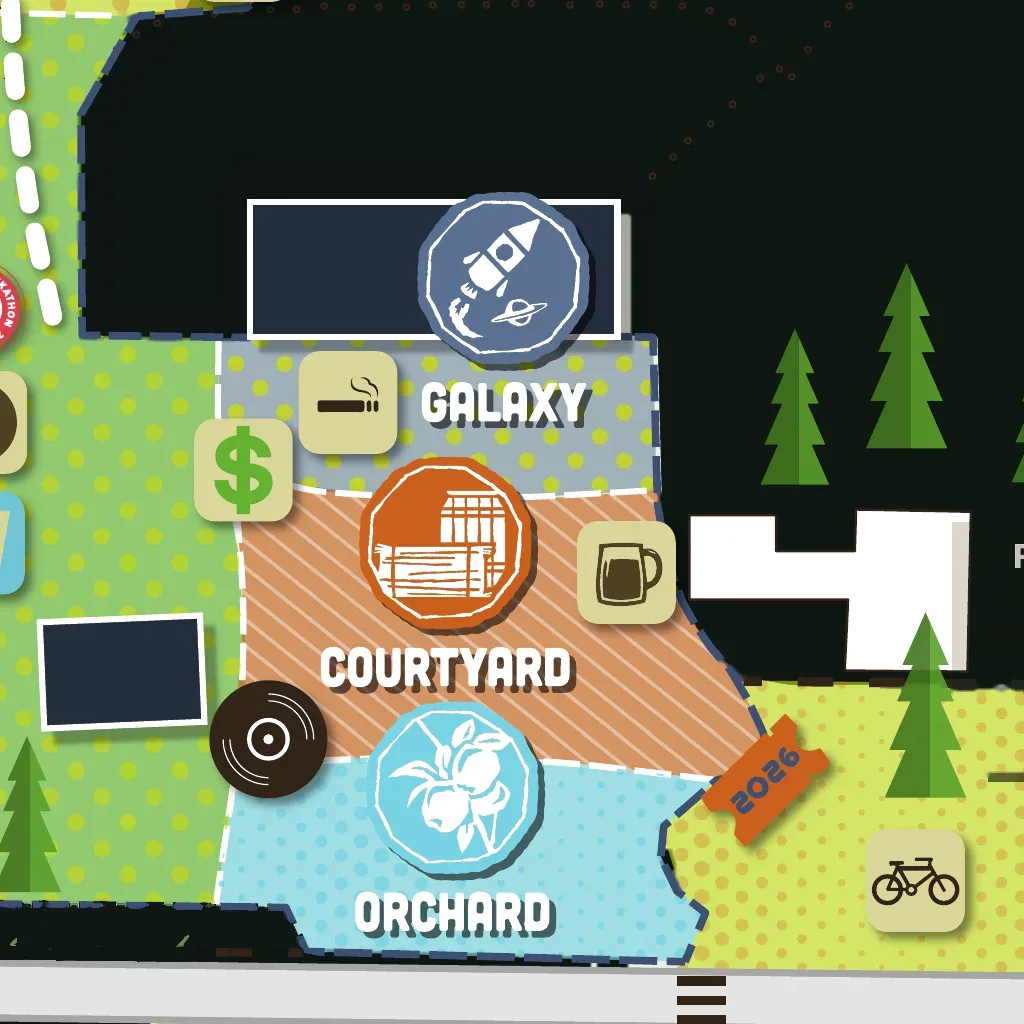
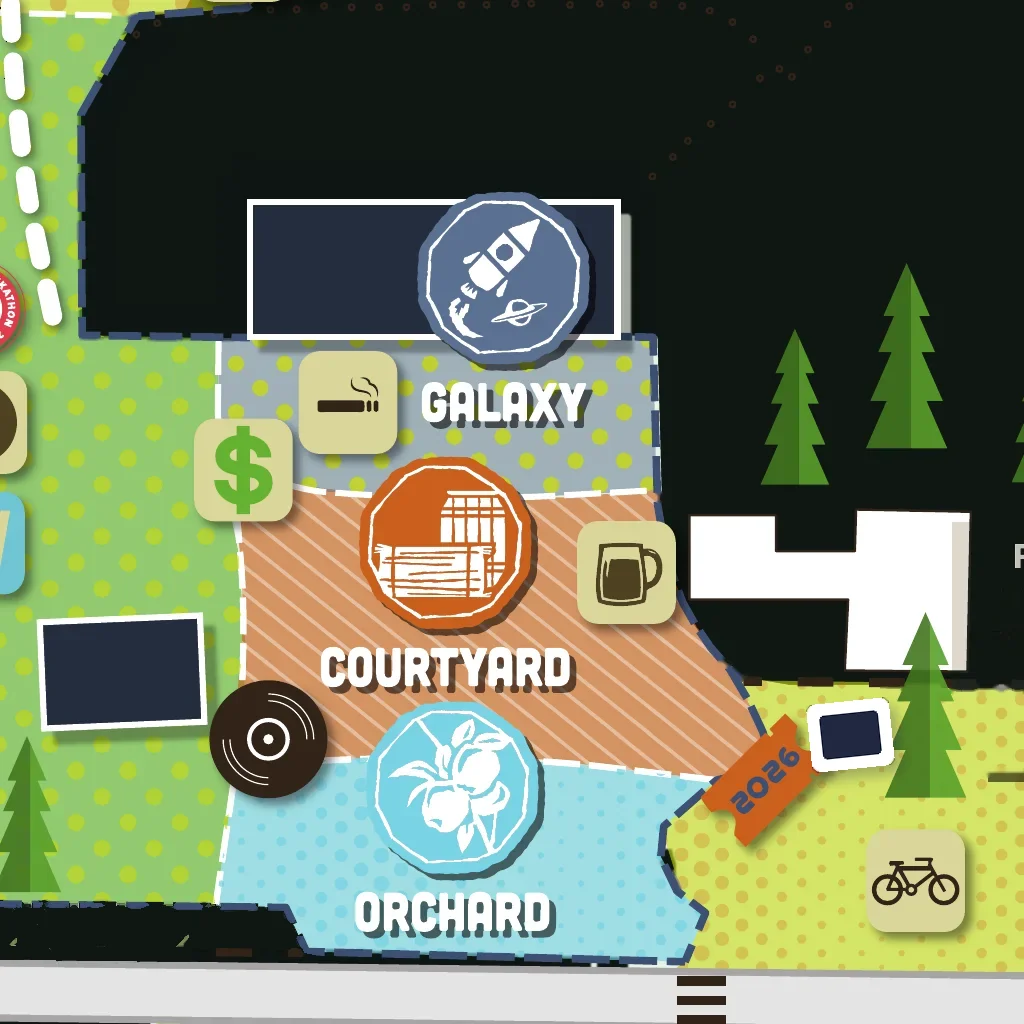
Map: stage plates in Curation and Farmhouse, DJ record in Curation; v=29
Claude-Session: https://claude.ai/code/session_01SpBvcN5P13erhr58dKS5yX

Changed region(s): [[0.7812, 0.6562, 0.875, 0.7812]]

diff --git a/farmmap/lab-phone.html b/farmmap/lab-phone.html
@@ -593,7 +593,7 @@ body.batout #dbat{margin:0 0 16px calc((100% - 129px)/6)!important}
 <script>/* Decide the entry state before the first paint, so nothing shows and then switches off (the title that blinked, labels that all showed and then collapsed). */
 (function(){try{var c=document.body.classList,emb=window.parent!==window,nv=performance.getEntriesByType('navigation')[0],rl=nv&&nv.type==='reload',fh=emb&&!rl&&sessionStorage.getItem('pkmap.from')==='hood',foc=!!sessionStorage.getItem('pkmap.focus');
 if(innerWidth>=880){c.add('lm');if(fh){c.add('dpdone');c.add('nodt');}}else{if(fh)c.add('lpback');else if(!foc)c.add('lpfresh');}}catch(e){}})();</script>
-  <div id="art"><img id="mapimg" src="map.webp?v=28" alt="Map of Pendarvis Farm" draggable="false"><div id="tiles"></div><div id="veil"></div><div id="lits"></div></div>
+  <div id="art"><img id="mapimg" src="map.webp?v=29" alt="Map of Pendarvis Farm" draggable="false"><div id="tiles"></div><div id="veil"></div><div id="lits"></div></div>
   <svg id="shapes"></svg>
   <svg id="leads"></svg>
   <div id="labs"></div>
@@ -996,8 +996,8 @@ function ico(k){
   return '<span class="ic svg'+(ICO_DARK[k]?' dark':'')+'"><svg viewBox="0 0 40 40" aria-hidden="true">'+g+'</svg></span>';
 }
 // Where each amenity icon really sits on the art (map pixels, from the vector map).
-const ICON_OWN={"restroom|1791.4|1228.9":"lushcamp","restroom|1041.3|860.1":"wildcamp","restroom|839.7|1868.9":"lushcamp","restroom|805.5|1498.9":"lushcamp","restroom|1366.4|717.6":"lushcamp","restroom|1663.5|2141.0":"market","restroom|745.5|3311.9":"lucky","restroom|1010.9|1133.0":"lushcamp","restroom|1241.4|2709.8":"paddock","restroom|615.5|2265.6":"lushcamp","water|1773.1|1425.9":"woods","water|1509.7|2523.1":"market","water|1208.0|2448.1":"grove","water|843.0|3213.6":"lucky","water|1618.0|2140.6":"market","water|969.7|2542.7":"windmill","bar|1220.5|2574.4":"grove","bar|1641.4|2228.1":"market","bar|793.8|2604.4":"windmill","bar|1113.4|3224.8":"courtyard","bar|1656.4|1333.0":"woods","coffee|780.5|2557.3":"windmill","coffee|1605.1|2426.9":"market","coffee|1728.5|1412.6":"woods","food|843.8|3163.2":"lucky","food|1155.9|2638.1":"paddock","food|1168.4|2734.0":"paddock","food|1606.4|2476.9":"market","food|1685.6|1377.6":"woods","dj|965.3|3294.9":"courtyard","dj|992.6|2633.5":"windmill","dj|1473.0|2257.3":"market","merch|1541.8|2639.2":"market","craft|1515.5|2172.7":"market","craft|1040.5|2913.6":"paddock","craft|1152.6|2782.3":"paddock","craft|1606.4|2288.5":"market","craft|1552.6|2221.4":"market","dot|843.8|3115.7":"lucky","dot|1608.0|2571.0":"market","ice|1607.6|2616.5":"market","atm|954.7|3182.3":"lucky","atm|1558.5|2525.2":"market","massage|1844.3|2096.4":"refuge","medical|1138.4|2827.3":"paddock","info|953.0|2964.0":"paddock","parking|1302.2|3444.4":"southcamp","moto|1409.7|3451.9":"southcamp","bike|1234.7|3354.0":"farmhouse","charge|998.8|2944.8":"paddock","gear|810.5|1440.5":"lushcamp","gear|843.4|1810.6":"lushcamp","gear|1426.4|713.4":"lushcamp","gear|987.6|938.0":"wildcamp","ticket|1172.4|3311.9":"farmhouse","shuttle|1053.0|3486.1":"farmhouse","kids|1393.4|2097.9":"coyote","run|975.5|2692.9":"windmill","rideshare|1036.8|3533.8":"southcamp","dishes|1606.0|2524.4":"market","smoke|998.0|3154.4":"galaxy","wheelchair|1255.5|3444.9":"southcamp","accesscamp|1599.9|1940.8":"lushcamp","rv|1028.8|3609.5":"southcamp","rv|1076.3|3609.0":"southcamp","shower|1795.1|2096.0":"refuge"};
-const ICON_AT={"restroom":[[1791.4,1228.9,42,0,41.7,42.5],[1041.3,860.1,42,1,41.7,42.5],[839.7,1868.9,42,2,41.7,42.5],[805.5,1498.9,42,3,41.7,42.5],[1366.4,717.6,42,4,41.7,42.5],[1663.5,2141.0,42,5,41.7,42.5],[745.5,3311.9,42,6,41.7,42.5],[1010.9,1133.0,42,7,41.7,42.5],[1241.4,2709.8,42,8,41.7,42.5],[615.5,2265.6,42,9,41.7,42.5]],"water":[[1773.1,1425.9,42,10,40.8,42.5],[1509.7,2523.1,42,11,40.8,42.5],[1208.0,2448.1,42,12,40.8,42.5],[843.0,3213.6,42,13,40.8,42.5],[1618.0,2140.6,42,14,40.8,42.5],[969.7,2542.7,42,15,40.8,42.5]],"bar":[[1220.5,2574.4,42,16,41.7,42.5],[1641.4,2228.1,42,17,41.7,42.5],[793.8,2604.4,42,18,41.7,42.5],[1113.4,3224.8,42,19,41.7,42.5],[1656.4,1333.0,42,20,41.7,42.5]],"coffee":[[780.5,2557.3,43,21,41.7,43.3],[1605.1,2426.9,43,22,41.7,43.3],[1728.5,1412.6,43,23,41.7,43.3]],"food":[[843.8,3163.2,42,24,41.7,42.5],[1155.9,2638.1,42,25,41.7,42.5],[1168.4,2734.0,42,26,41.7,42.5],[1606.4,2476.9,42,27,41.7,42.5],[1685.6,1377.6,42,28,41.7,42.5]],"dj":[[965.3,3294.9,49,29,48.8,49.2],[992.6,2633.5,49,30,49.2,49.2],[1473.0,2257.3,49,31,49.2,49.2]],"merch":[[1541.8,2639.2,45,32,45.0,42.9]],"craft":[[1515.5,2172.7,43,33,41.7,43.3],[1040.5,2913.6,43,34,41.7,43.3],[1152.6,2782.3,43,35,41.7,43.3],[1606.4,2288.5,43,36,41.7,43.3],[1552.6,2221.4,43,37,41.7,43.3]],"dot":[[843.8,3115.7,41,38,40.8,40.8],[1608.0,2571.0,45,39,40.8,45.0]],"ice":[[1607.6,2616.5,43,40,41.7,43.3]],"atm":[[954.7,3182.3,42,41,41.7,42.5],[1558.5,2525.2,42,42,41.7,42.5]],"massage":[[1844.3,2096.4,42,43,41.7,41.7]],"medical":[[1138.4,2827.3,43,44,41.7,43.3]],"info":[[953.0,2964.0,42,45,42.5,42.5]],"parking":[[1302.2,3444.4,43,46,42.5,43.3]],"moto":[[1409.7,3451.9,43,47,43.3,42.5]],"bike":[[1234.7,3354.0,42,48,41.7,42.5]],"charge":[[998.8,2944.8,42,49,42.5,42.5]],"gear":[[810.5,1440.5,58,50,57.5,57.5],[843.4,1810.6,58,51,57.5,57.5],[1426.4,713.4,58,52,57.5,57.5],[987.6,938.0,58,53,57.5,57.5]],"ticket":[[1172.4,3311.9,55,54,53.8,55.0]],"shuttle":[[1053.0,3486.1,42,55,42.5,42.5]],"kids":[[1393.4,2097.9,48,56,32.5,47.9]],"run":[[975.5,2692.9,44,57,28.3,43.8]],"rideshare":[[1036.8,3533.8,35,58,35.0,24.6]],"dishes":[[1606.0,2524.4,43,59,43.3,43.3]],"smoke":[[998.0,3154.4,43,60,43.3,43.3]],"wheelchair":[[1255.5,3444.9,42,61,41.7,41.7]],"accesscamp":[[1599.9,1940.8,42,62,42.1,42.1]],"rv":[[1028.8,3609.5,42,63,42.5,42.5],[1076.3,3609.0,42,64,42.5,42.5]],"shower":[[1795.1,2096.0,47,65,46.7,46.7]]};
+const ICON_OWN={"restroom|1791.4|1228.9":"lushcamp","restroom|1041.3|860.1":"wildcamp","restroom|839.7|1868.9":"lushcamp","restroom|805.5|1498.9":"lushcamp","restroom|1366.4|717.6":"lushcamp","restroom|1663.5|2141.0":"market","restroom|745.5|3311.9":"lucky","restroom|1010.9|1133.0":"lushcamp","restroom|1241.4|2709.8":"paddock","restroom|615.5|2265.6":"lushcamp","water|1773.1|1425.9":"woods","water|1509.7|2523.1":"market","water|1208.0|2448.1":"grove","water|843.0|3213.6":"lucky","water|1618.0|2140.6":"market","water|969.7|2542.7":"windmill","bar|1220.5|2574.4":"grove","bar|1641.4|2228.1":"market","bar|793.8|2604.4":"windmill","bar|1113.4|3224.8":"courtyard","bar|1656.4|1333.0":"woods","coffee|780.5|2557.3":"windmill","coffee|1605.1|2426.9":"market","coffee|1728.5|1412.6":"woods","food|843.8|3163.2":"lucky","food|1155.9|2638.1":"paddock","food|1168.4|2734.0":"paddock","food|1606.4|2476.9":"market","food|1685.6|1377.6":"woods","dj|965.3|3294.9":"courtyard","dj|992.6|2633.5":"windmill","dj|1473.0|2257.3":"market","dj|624.6|3691.1":"curation","merch|1541.8|2639.2":"market","craft|1515.5|2172.7":"market","craft|1040.5|2913.6":"paddock","craft|1152.6|2782.3":"paddock","craft|1606.4|2288.5":"market","craft|1552.6|2221.4":"market","dot|843.8|3115.7":"lucky","dot|1608.0|2571.0":"market","ice|1607.6|2616.5":"market","atm|954.7|3182.3":"lucky","atm|1558.5|2525.2":"market","massage|1844.3|2096.4":"refuge","medical|1138.4|2827.3":"paddock","info|953.0|2964.0":"paddock","parking|1302.2|3444.4":"southcamp","moto|1409.7|3451.9":"southcamp","bike|1234.7|3354.0":"farmhouse","charge|998.8|2944.8":"paddock","gear|810.5|1440.5":"lushcamp","gear|843.4|1810.6":"lushcamp","gear|1426.4|713.4":"lushcamp","gear|987.6|938.0":"wildcamp","ticket|1172.4|3311.9":"farmhouse","shuttle|1053.0|3486.1":"farmhouse","kids|1393.4|2097.9":"coyote","run|975.5|2692.9":"windmill","rideshare|1036.8|3533.8":"southcamp","dishes|1606.0|2524.4":"market","smoke|998.0|3154.4":"galaxy","wheelchair|1255.5|3444.9":"southcamp","accesscamp|1599.9|1940.8":"lushcamp","rv|1028.8|3609.5":"southcamp","rv|1076.3|3609.0":"southcamp","shower|1795.1|2096.0":"refuge"};
+const ICON_AT={"restroom":[[1791.4,1228.9,42,0,41.7,42.5],[1041.3,860.1,42,1,41.7,42.5],[839.7,1868.9,42,2,41.7,42.5],[805.5,1498.9,42,3,41.7,42.5],[1366.4,717.6,42,4,41.7,42.5],[1663.5,2141.0,42,5,41.7,42.5],[745.5,3311.9,42,6,41.7,42.5],[1010.9,1133.0,42,7,41.7,42.5],[1241.4,2709.8,42,8,41.7,42.5],[615.5,2265.6,42,9,41.7,42.5]],"water":[[1773.1,1425.9,42,10,40.8,42.5],[1509.7,2523.1,42,11,40.8,42.5],[1208.0,2448.1,42,12,40.8,42.5],[843.0,3213.6,42,13,40.8,42.5],[1618.0,2140.6,42,14,40.8,42.5],[969.7,2542.7,42,15,40.8,42.5]],"bar":[[1220.5,2574.4,42,16,41.7,42.5],[1641.4,2228.1,42,17,41.7,42.5],[793.8,2604.4,42,18,41.7,42.5],[1113.4,3224.8,42,19,41.7,42.5],[1656.4,1333.0,42,20,41.7,42.5]],"coffee":[[780.5,2557.3,43,21,41.7,43.3],[1605.1,2426.9,43,22,41.7,43.3],[1728.5,1412.6,43,23,41.7,43.3]],"food":[[843.8,3163.2,42,24,41.7,42.5],[1155.9,2638.1,42,25,41.7,42.5],[1168.4,2734.0,42,26,41.7,42.5],[1606.4,2476.9,42,27,41.7,42.5],[1685.6,1377.6,42,28,41.7,42.5]],"dj":[[965.3,3294.9,49,29,48.8,49.2],[992.6,2633.5,49,30,49.2,49.2],[1473.0,2257.3,49,31,49.2,49.2],[624.6,3691.1,49,31,49.2,49.2]],"merch":[[1541.8,2639.2,45,32,45.0,42.9]],"craft":[[1515.5,2172.7,43,33,41.7,43.3],[1040.5,2913.6,43,34,41.7,43.3],[1152.6,2782.3,43,35,41.7,43.3],[1606.4,2288.5,43,36,41.7,43.3],[1552.6,2221.4,43,37,41.7,43.3]],"dot":[[843.8,3115.7,41,38,40.8,40.8],[1608.0,2571.0,45,39,40.8,45.0]],"ice":[[1607.6,2616.5,43,40,41.7,43.3]],"atm":[[954.7,3182.3,42,41,41.7,42.5],[1558.5,2525.2,42,42,41.7,42.5]],"massage":[[1844.3,2096.4,42,43,41.7,41.7]],"medical":[[1138.4,2827.3,43,44,41.7,43.3]],"info":[[953.0,2964.0,42,45,42.5,42.5]],"parking":[[1302.2,3444.4,43,46,42.5,43.3]],"moto":[[1409.7,3451.9,43,47,43.3,42.5]],"bike":[[1234.7,3354.0,42,48,41.7,42.5]],"charge":[[998.8,2944.8,42,49,42.5,42.5]],"gear":[[810.5,1440.5,58,50,57.5,57.5],[843.4,1810.6,58,51,57.5,57.5],[1426.4,713.4,58,52,57.5,57.5],[987.6,938.0,58,53,57.5,57.5]],"ticket":[[1172.4,3311.9,55,54,53.8,55.0]],"shuttle":[[1053.0,3486.1,42,55,42.5,42.5]],"kids":[[1393.4,2097.9,48,56,32.5,47.9]],"run":[[975.5,2692.9,44,57,28.3,43.8]],"rideshare":[[1036.8,3533.8,35,58,35.0,24.6]],"dishes":[[1606.0,2524.4,43,59,43.3,43.3]],"smoke":[[998.0,3154.4,43,60,43.3,43.3]],"wheelchair":[[1255.5,3444.9,42,61,41.7,41.7]],"accesscamp":[[1599.9,1940.8,42,62,42.1,42.1]],"rv":[[1028.8,3609.5,42,63,42.5,42.5],[1076.3,3609.0,42,64,42.5,42.5]],"shower":[[1795.1,2096.0,47,65,46.7,46.7]]};
 let RINGS=[];
 // The icons inside one neighbourhood: every icon whose centre falls in its outline.
 let _hp=null;
@@ -1009,7 +1009,7 @@ function hoodIcons(h){
   for(const a in ICON_AT) ICON_AT[a].forEach(p=>{ if(ICON_OWN[a+'|'+p[0]+'|'+p[1]]===h.id) out.push([a,p]); });   // every icon has exactly one owner (computed from the art, ties broken by the WordPress amenity list)
   return out;
 }
-const ICON_ATLAS='ic/atlas.webp?v=28', ATL=[1440,1008,144,10];
+const ICON_ATLAS='ic/atlas.webp?v=29', ATL=[1440,1008,144,10];
 function showRings(a,hood){
   const g=document.getElementById('rings'); if(!g) return;
   g.innerHTML=''; RINGS=[];
@@ -1073,7 +1073,7 @@ function light(h){
     v.o.classList.remove('on'); v.tiles.forEach(t=>t.classList.remove('on'));
     setTimeout(()=>{ v.o.remove(); v.tiles.forEach(t=>t.remove()); },260); LITIMG.delete(id); } });
   ids.forEach(id=>{ if(!LITIMG.has(id)){ const o=LIT[id].o;
-    LITIMG.set(id,{o:litMake(host,'l/'+id+'.webp?v=28',o[0],o[1],o[2],o[3]),tiles:new Map()}); } });
+    LITIMG.set(id,{o:litMake(host,'l/'+id+'.webp?v=29',o[0],o[1],o[2],o[3]),tiles:new Map()}); } });
   syncPk();
   document.getElementById('veil').classList.toggle('on',ids.length>0);
   stage.classList.toggle('veiled',ids.length>0);
@@ -1213,7 +1213,7 @@ function tiles(){
       if(!v.tiles.has(key)){
         // every sharp piece of one neighbourhood lives in a single sheet; each piece just windows into it
         const A=LIT[id].a, f=TM/TP, d=document.createElement('div');
-        d.style.cssText='left:'+c*TM+'px;top:'+r*TM+'px;width:'+Math.min(TM,MW-c*TM)+'px;height:'+Math.min(TM,MH-r*TM)+'px;background:url(l/'+id+'_a.webp?v=28) -'+a[2]*TP*f+'px -'+a[3]*TP*f+'px/'+A[0]*f+'px '+A[1]*f+'px no-repeat';
+        d.style.cssText='left:'+c*TM+'px;top:'+r*TM+'px;width:'+Math.min(TM,MW-c*TM)+'px;height:'+Math.min(TM,MH-r*TM)+'px;background:url(l/'+id+'_a.webp?v=29) -'+a[2]*TP*f+'px -'+a[3]*TP*f+'px/'+A[0]*f+'px '+A[1]*f+'px no-repeat';
         if(peekH&&peekH.id===id) d.classList.add('pk'); lh.appendChild(d); requestAnimationFrame(()=>d.classList.add('on')); v.tiles.set(key,d);
       } });
     v.tiles.forEach((im,key)=>{ if(!want.has(key)){ im.remove(); v.tiles.delete(key); } });
@@ -1228,7 +1228,7 @@ function tiles(){
     if(!t.img){
       const im=new Image(); im.decoding='async'; im.draggable=false;
       im.style.left=t.x+'px'; im.style.top=t.y+'px'; im.style.width=t.w+'px'; im.style.height=t.h+'px';
-      im.src='t/'+key+'.webp?v=28'; (im.decode?im.decode():Promise.resolve()).then(()=>im.classList.add('on'),()=>im.classList.add('on')); host.appendChild(im); t.img=im;
+      im.src='t/'+key+'.webp?v=29'; (im.decode?im.decode():Promise.resolve()).then(()=>im.classList.add('on'),()=>im.classList.add('on')); host.appendChild(im); t.img=im;
     }
   }
   if(TILES.size>TMAX){
@@ -1986,8 +1986,8 @@ function warmView(to,h){
   try{
     const W=stage.clientWidth,H=stage.clientHeight; if(to.k*Math.min(window.devicePixelRatio||1,3)<1.05) return;
     const m=TM*0.2, x0=Math.max(0,-to.tx/to.k-m), y0=Math.max(0,-to.ty/to.k-m), x1=Math.min(MW,(W-to.tx)/to.k+m), y1=Math.min(MH,(H-to.ty)/to.k+m);
-    for(let c=Math.floor(x0/TM);c<=Math.min(TW-1,Math.floor(x1/TM));c++) for(let r=Math.floor(y0/TM);r<=Math.min(TH-1,Math.floor(y1/TM));r++) new Image().src='t/'+c+'_'+r+'.webp?v=28';
-    if(h&&LIT[h.id]&&LIT[h.id].a){ new Image().src='l/'+h.id+'_a.webp?v=28'; }
+    for(let c=Math.floor(x0/TM);c<=Math.min(TW-1,Math.floor(x1/TM));c++) for(let r=Math.floor(y0/TM);r<=Math.min(TH-1,Math.floor(y1/TM));r++) new Image().src='t/'+c+'_'+r+'.webp?v=29';
+    if(h&&LIT[h.id]&&LIT[h.id].a){ new Image().src='l/'+h.id+'_a.webp?v=29'; }
   }catch(e){}
 }
 function flyTo(h){ const to=viewFor(h); if(to) flyView(to,h); }

diff --git a/farmmap/index.html b/farmmap/index.html
@@ -402,7 +402,7 @@ body{margin:0;background:var(--ink);color:var(--cream);font-family:var(--f);
 
 <style>body.cardmode #leads{display:none!important}body.cardmode #veil.on{background:rgba(8,11,6,.6)!important}body.cardmode #lits img{filter:drop-shadow(0 0 1.5px #fff) drop-shadow(0 0 4px #fff4c2) drop-shadow(0 0 18px rgba(255,236,150,1)) brightness(1.3) saturate(1.2)}body.cardmode #stage{inset:0!important;right:0!important;bottom:0!important;width:100%!important;height:100%!important}body.cardmode #page,body.cardmode #finder,body.cardmode #fullmap,body.cardmode #card,body.cardmode #fx,body.cardmode #itip{display:none!important}body.cardmode,body.cardmode *{pointer-events:none!important;cursor:default!important}body.cardmode .lbl,body.cardmode [class*=lab]{display:none!important}</style>
 <div id="stage">
-  <div id="art"><img id="mapimg" src="map.webp?v=28" alt="Map of Pendarvis Farm" draggable="false"><div id="tiles"></div><div id="veil"></div><div id="lits"></div></div>
+  <div id="art"><img id="mapimg" src="map.webp?v=29" alt="Map of Pendarvis Farm" draggable="false"><div id="tiles"></div><div id="veil"></div><div id="lits"></div></div>
   <svg id="shapes"></svg>
   <svg id="leads"></svg>
   <div id="labs"></div>
@@ -579,7 +579,7 @@ function hoodIcons(h){
   for(const a in ICON_AT) ICON_AT[a].forEach(p=>{ if(ICON_OWN[a+'|'+p[0]+'|'+p[1]]===h.id) out.push([a,p]); });   // every icon has exactly one owner (computed from the art, ties broken by the WordPress amenity list)
   return out;
 }
-const ICON_ATLAS='ic/atlas.webp?v=28', ATL=[1440,1008,144,10];
+const ICON_ATLAS='ic/atlas.webp?v=29', ATL=[1440,1008,144,10];
 function showRings(a,hood){
   const g=document.getElementById('rings'); if(!g) return;
   g.innerHTML=''; RINGS=[];
@@ -643,7 +643,7 @@ function light(h){
     v.o.classList.remove('on'); v.tiles.forEach(t=>t.classList.remove('on'));
     setTimeout(()=>{ v.o.remove(); v.tiles.forEach(t=>t.remove()); },260); LITIMG.delete(id); } });
   ids.forEach(id=>{ if(!LITIMG.has(id)){ const o=LIT[id].o;
-    LITIMG.set(id,{o:litMake(host,'l/'+id+'.webp?v=28',o[0],o[1],o[2],o[3]),tiles:new Map()}); } });
+    LITIMG.set(id,{o:litMake(host,'l/'+id+'.webp?v=29',o[0],o[1],o[2],o[3]),tiles:new Map()}); } });
   syncPk();
   document.getElementById('veil').classList.toggle('on',ids.length>0);
   stage.classList.toggle('veiled',ids.length>0);
@@ -768,7 +768,7 @@ function tiles(){
       if(!v.tiles.has(key)){
         // every sharp piece of one neighbourhood lives in a single sheet; each piece just windows into it
         const A=LIT[id].a, f=TM/TP, d=document.createElement('div');
-        d.style.cssText='left:'+c*TM+'px;top:'+r*TM+'px;width:'+Math.min(TM,MW-c*TM)+'px;height:'+Math.min(TM,MH-r*TM)+'px;background:url(l/'+id+'_a.webp?v=28) -'+a[2]*TP*f+'px -'+a[3]*TP*f+'px/'+A[0]*f+'px '+A[1]*f+'px no-repeat';
+        d.style.cssText='left:'+c*TM+'px;top:'+r*TM+'px;width:'+Math.min(TM,MW-c*TM)+'px;height:'+Math.min(TM,MH-r*TM)+'px;background:url(l/'+id+'_a.webp?v=29) -'+a[2]*TP*f+'px -'+a[3]*TP*f+'px/'+A[0]*f+'px '+A[1]*f+'px no-repeat';
         if(peekH&&peekH.id===id) d.classList.add('pk'); lh.appendChild(d); requestAnimationFrame(()=>d.classList.add('on')); v.tiles.set(key,d);
       } });
     v.tiles.forEach((im,key)=>{ if(!want.has(key)){ im.remove(); v.tiles.delete(key); } });
@@ -783,7 +783,7 @@ function tiles(){
     if(!t.img){
       const im=new Image(); im.decoding='async'; im.draggable=false;
       im.style.left=t.x+'px'; im.style.top=t.y+'px'; im.style.width=t.w+'px'; im.style.height=t.h+'px';
-      im.src='t/'+key+'.webp?v=28'; (im.decode?im.decode():Promise.resolve()).then(()=>im.classList.add('on'),()=>im.classList.add('on')); host.appendChild(im); t.img=im;
+      im.src='t/'+key+'.webp?v=29'; (im.decode?im.decode():Promise.resolve()).then(()=>im.classList.add('on'),()=>im.classList.add('on')); host.appendChild(im); t.img=im;
     }
   }
   if(TILES.size>TMAX){
@@ -1246,8 +1246,8 @@ function warmView(to,h){
   try{
     const W=stage.clientWidth,H=stage.clientHeight; if(to.k*Math.min(window.devicePixelRatio||1,3)<1.05) return;
     const m=TM*0.2, x0=Math.max(0,-to.tx/to.k-m), y0=Math.max(0,-to.ty/to.k-m), x1=Math.min(MW,(W-to.tx)/to.k+m), y1=Math.min(MH,(H-to.ty)/to.k+m);
-    for(let c=Math.floor(x0/TM);c<=Math.min(TW-1,Math.floor(x1/TM));c++) for(let r=Math.floor(y0/TM);r<=Math.min(TH-1,Math.floor(y1/TM));r++) new Image().src='t/'+c+'_'+r+'.webp?v=28';
-    if(h&&LIT[h.id]&&LIT[h.id].a){ new Image().src='l/'+h.id+'_a.webp?v=28'; }
+    for(let c=Math.floor(x0/TM);c<=Math.min(TW-1,Math.floor(x1/TM));c++) for(let r=Math.floor(y0/TM);r<=Math.min(TH-1,Math.floor(y1/TM));r++) new Image().src='t/'+c+'_'+r+'.webp?v=29';
+    if(h&&LIT[h.id]&&LIT[h.id].a){ new Image().src='l/'+h.id+'_a.webp?v=29'; }
   }catch(e){}
 }
 function flyTo(h){ const to=viewFor(h); if(to) flyView(to,h); }

diff --git a/sw.js b/sw.js
@@ -1,5 +1,5 @@
 // Pickathon service worker. Build 20261101-1050
-const V='pk-20261102-2885',M='pkmedia-2',KEEP=["ssindex-b6158b1d.json"],SHELL=['./','index.html','data.json','manifest.json','icon-192.png','apple-touch-icon.png','fonts/pickathon-2014.ttf','farmmap/index.html?embed=1'];
+const V='pk-20261102-2886',M='pkmedia-2',KEEP=["ssindex-b6158b1d.json"],SHELL=['./','index.html','data.json','manifest.json','icon-192.png','apple-touch-icon.png','fonts/pickathon-2014.ttf','farmmap/index.html?embed=1'];
 const MP='pkmap-1';
 async function mapPack(tier){try{const p=await (await fetch('farmmap/pack.json',{cache:'no-store'})).json();const c=await caches.open(MP);const abs=u=>new URL(u,self.registration.scope).href;const want=new Set(p.core.concat(p.extra).map(abs));for(const q of await c.keys())if(!want.has(q.url))await c.delete(q);const list=tier==='core'?p.core:p.extra;let i=0;const run=async()=>{while(i<list.length){const u=list[i++];const rq=new Request(abs(u));if(await c.match(rq))continue;try{const x=await fetch(rq);if(x.ok)await c.put(rq,x)}catch(e){}}};await Promise.all([run(),run(),run(),run()])}catch(e){}}
 self.addEventListener('install',e=>{e.waitUntil(Promise.all([caches.open(V).then(c=>Promise.all(SHELL.map(u=>c.add(new Request(u,{cache:'reload'})).catch(()=>{})))),mapPack('core')]))});
